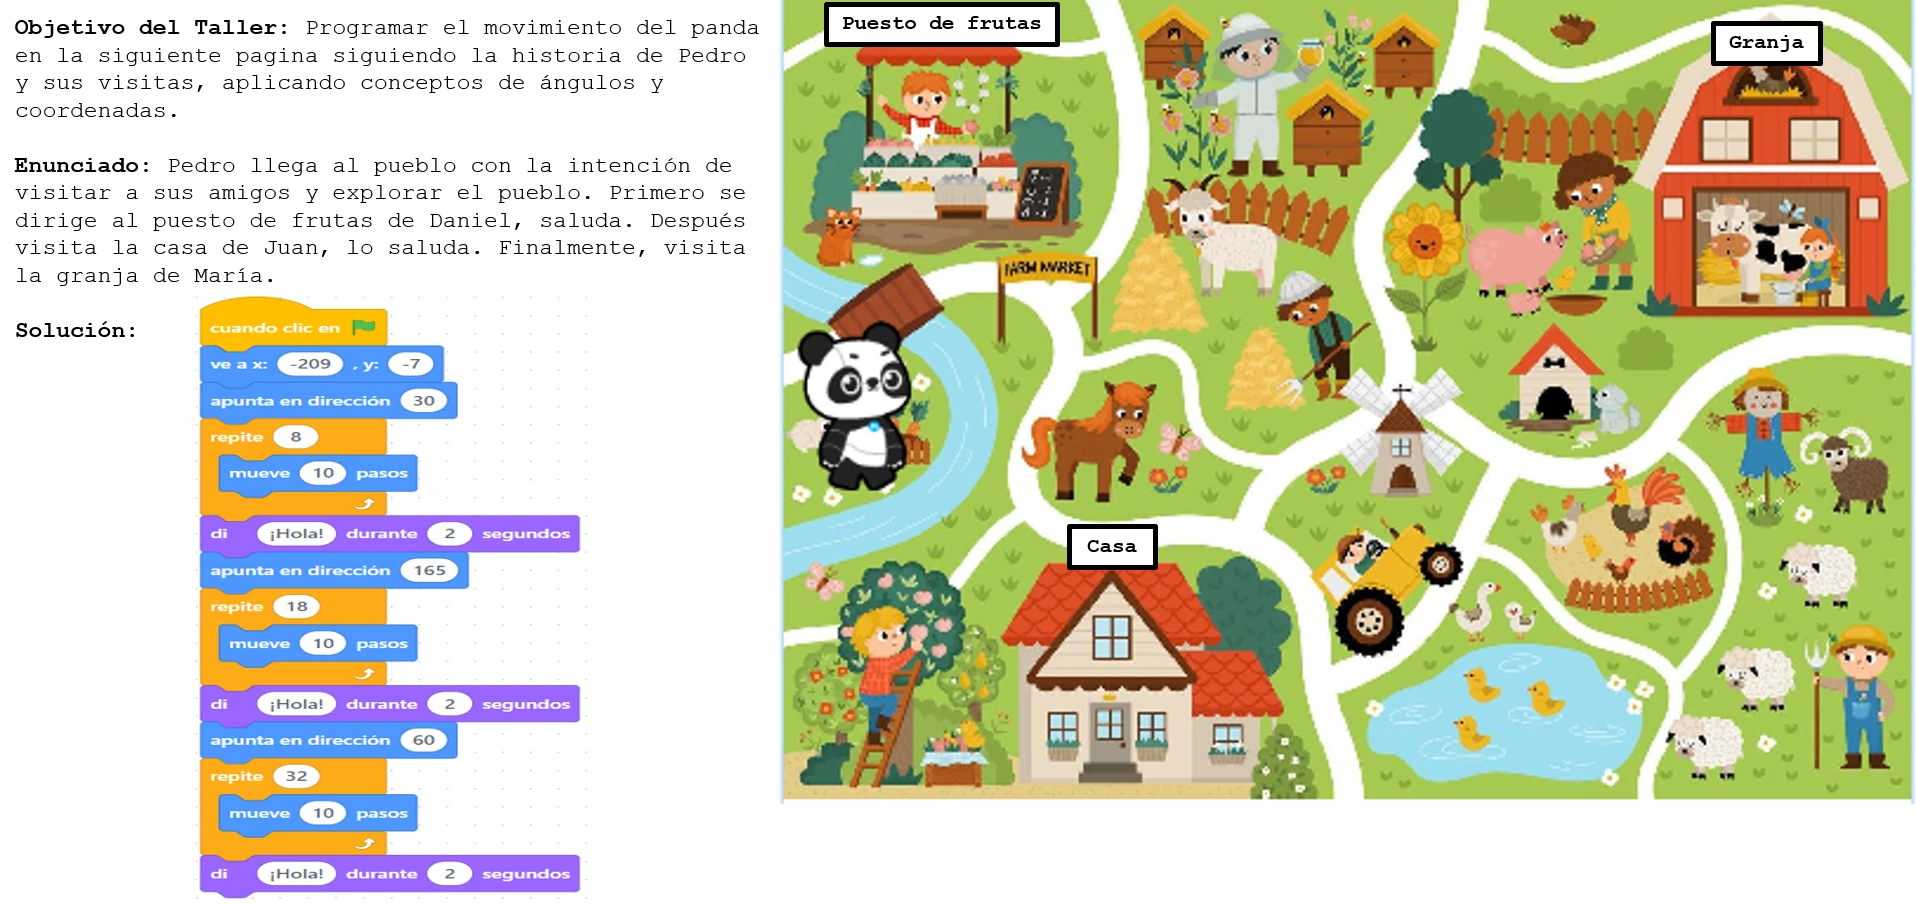
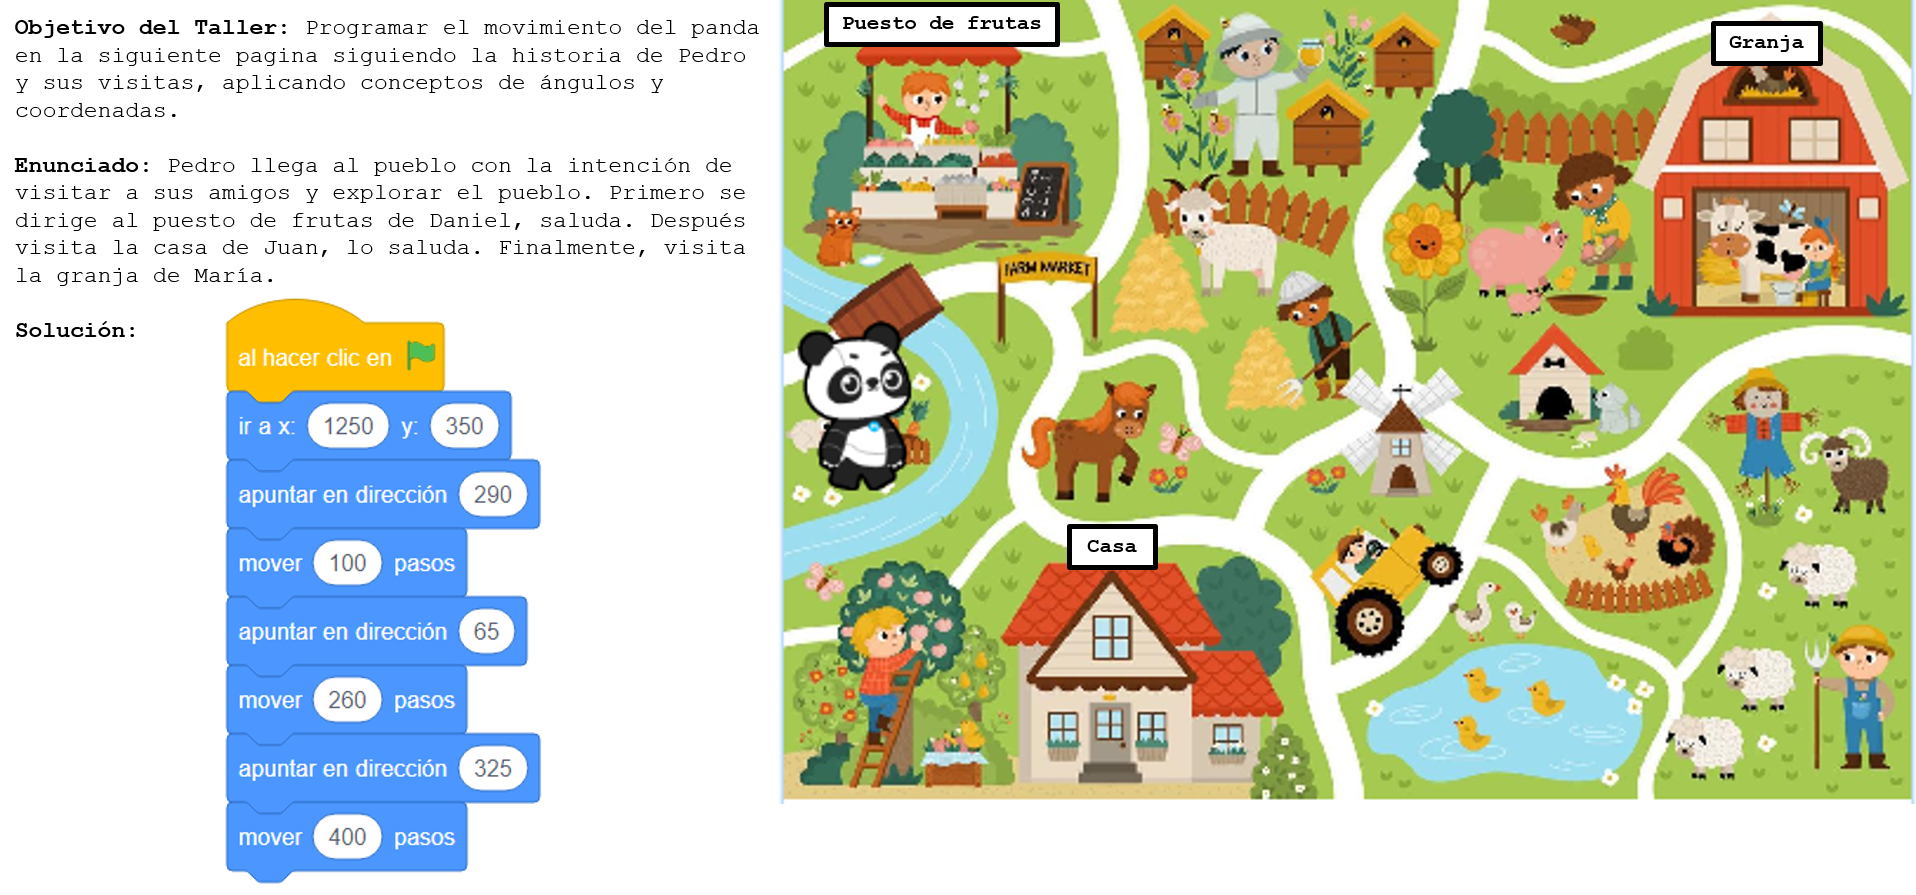
Ajustes taller 1 solucion

diff --git a/src/pages/tallerbloques/Bloques1.jsx b/src/pages/tallerbloques/Bloques1.jsx
@@ -1,15 +1,12 @@
-import React, { useState, useRef } from "react";
+import React, { useState } from "react";
 import ScratchBlocks from "scratchblocks-react";
-//import "./Bloques.css";
 import { useNavigate } from "react-router-dom";
+import FlagIcon from '@mui/icons-material/Flag';
 import scratchblocks from "scratchblocks";
 import es from "scratchblocks/locales/es-419.json";
 import ess from "scratchblocks/locales/es.json";
 
-// Importa el ícono de la bandera verde desde Material UI
-import FlagIcon from '@mui/icons-material/Flag';
-
-// Configurar scratchblocks con idioma español
+// Cargar idiomas para ScratchBlocks
 scratchblocks.loadLanguages({ es });
 scratchblocks.loadLanguages({ ess });
 
@@ -20,7 +17,7 @@ const Bloques = () => {
     {
       id: 1,
       nombre: "Movimiento",
-      bloques: ["mover (10) pasos","apuntar en dirección (30)", "ir a x: (-209) y: (-7)"],
+      bloques: ["mover (100) pasos", "apuntar en dirección (290)", "ir a x: (1250) y: (350)"],
     },
     {
       id: 2,
@@ -38,6 +35,113 @@ const Bloques = () => {
       bloques: ["al hacer clic en @greenFlag"],
     },
   ]);
+
+  /*     Solucion para pegar en el cuadro de texto
+    al hacer clic en @greenFlag
+    apuntar en dirección (290)
+    mover (100) pasos
+    apuntar en dirección (65)
+    mover (260) pasos
+    apuntar en dirección (325)
+    mover (400) pasos
+  */
+
+  // Actualiza la posición inicial del panda a { x: 1250, y: 350 } y la dirección a 0 (sin rotar)
+  const [posicionPanda, setPosicionPanda] = useState({ x: 1250, y: 350, direccion: 0 });
+  
+  // Estado para el mensaje del panda
+  const [mensajePanda, setMensajePanda] = useState("");
+
+  // Función para mover el panda
+  const moverPanda = async (accion) => {
+    switch (accion.tipo) {
+      case "mover":
+        setPosicionPanda((prev) => ({
+          ...prev,
+          x: prev.x + accion.valor * Math.cos((prev.direccion * Math.PI) / 180), // Movimiento en la dirección actual
+          y: prev.y + accion.valor * Math.sin((prev.direccion * Math.PI) / 180),
+        }));
+        break;
+      case "apuntar":
+        setPosicionPanda((prev) => ({
+          ...prev,
+          direccion: accion.valor, // Cambiar la dirección
+        }));
+        break;
+      case "ir_a":
+        setPosicionPanda({ x: accion.x, y: accion.y, direccion: 0 });
+        break;
+      case "decir":
+        setMensajePanda(accion.mensaje); // Mostrar el mensaje del panda
+        await new Promise((resolve) => setTimeout(resolve, accion.duracion * 1000)); // Esperar los segundos
+        setMensajePanda(""); // Limpiar el mensaje después de la duración
+        break;
+      case "repetir":
+        for (let i = 0; i < accion.veces; i++) {
+          // Ejecutar las acciones repetidas
+          for (const subAccion of accion.subacciones) {
+            await moverPanda(subAccion);
+          }
+        }
+        break;
+      default:
+        break;
+    }
+  };
+
+  // Función para ejecutar el código al hacer clic en la bandera verde
+  const ejecutarCodigo = async () => {
+    const instrucciones = procesarCodigo(codigo);
+
+    // Ejecutar cada instrucción y mover el panda
+    for (const accion of instrucciones) {
+      await moverPanda(accion); // Esperar a que cada acción termine antes de pasar a la siguiente
+    }
+  };
+
+  // Función para procesar el código en formato de bloques (convertir el código a instrucciones)
+  const procesarCodigo = (codigo) => {
+    const instrucciones = [];
+
+    // Dividir el código por líneas y extraer las instrucciones
+    const lineas = codigo.split("\n");
+
+    lineas.forEach((linea) => {
+      if (linea.includes("mover")) {
+        const valor = parseInt(linea.match(/\d+/)[0]);
+        instrucciones.push({ tipo: "mover", valor });
+      } else if (linea.includes("ir a x:")) {
+        const [x, y] = linea.match(/-?\d+/g).map((num) => parseInt(num));
+        instrucciones.push({ tipo: "ir_a", x, y });
+      } else if (linea.includes("decir")) {
+        const mensaje = linea.match(/\(([^)]+)\)/)[1]; // Extraer el mensaje
+        const duracion = parseInt(linea.match(/\d+/g)[1]); // Extraer la duración
+        instrucciones.push({ tipo: "decir", mensaje, duracion });
+      } else if (linea.includes("repetir")) {
+        const veces = parseInt(linea.match(/\d+/)[0]); // Extraer el número de repeticiones
+        const subacciones = []; // Almacenar las subacciones dentro del bloque repetir
+
+        // Procesar las subacciones dentro del bloque repetir
+        const subCodigo = codigo.split("\n").slice(lineas.indexOf(linea) + 1);
+        subCodigo.forEach((subLinea) => {
+          if (subLinea.includes("mover")) {
+            const valor = parseInt(subLinea.match(/\d+/)[0]);
+            subacciones.push({ tipo: "mover", valor });
+          } else if (subLinea.includes("ir a x:")) {
+            const [x, y] = subLinea.match(/-?\d+/g).map((num) => parseInt(num));
+            subacciones.push({ tipo: "ir_a", x, y });
+          }
+        });
+
+        instrucciones.push({ tipo: "repetir", veces, subacciones });
+      } else if (linea.includes("apuntar en dirección")) {
+        const direccion = parseInt(linea.match(/\d+/)[0]); // Extraer la dirección
+        instrucciones.push({ tipo: "apuntar", valor: direccion });
+      }
+    });
+
+    return instrucciones;
+  };
 
   // Función para agregar el bloque arrastrado al área de trabajo
   const manejarDrop = (e) => {
@@ -83,29 +187,15 @@ const Bloques = () => {
     e.preventDefault();
   };
 
-  // Función para permitir la edición de un bloque
-  const editarBloque = (bloque, nuevaValor) => {
-    // Actualizar el valor del bloque en el código
-    const nuevoCodigo = codigo.replace(bloque, nuevaValor);
-    setCodigo(nuevoCodigo);
-  };
-
-  const cargarAlMbot = () => {
-    console.log("Cargar al mBot:", codigo);
-    alert("Código cargado al mBot: \n" + codigo);
-  };
-
   return (
     <div className="container">
       <div className="inner-container">
-        {/* Logo */}
         <img
           src="src/images/logo.webp"
           alt="logo"
           className="logo1"
           onClick={() => navigate("/Proyectos")}
         />
-        {/* Contenido principal */}
         <div className="main-content">
           {/* Menú lateral izquierdo */}
           <div className="sidebar">
@@ -136,13 +226,13 @@ const Bloques = () => {
               ))}
             </ul>
           </div>
+
           {/* Área de edición */}
           <div className="editor">
             <header className="editor-header">
               <h1 className="editor-title">Editor de Bloques</h1>
-              {/* Aquí reemplazamos el texto por el ícono de la bandera verde */}
-              <button className="load-button2">
-                <FlagIcon className="iconFlag" style={{ color: "green"}} />
+              <button className="load-button2" onClick={ejecutarCodigo}>
+                <FlagIcon className="iconFlag" style={{ color: "green" }} />
               </button>
               <button className="load-button" onClick={() => navigate('/Felicitaciones')}>
                 Finalizar Actividad
@@ -153,7 +243,6 @@ const Bloques = () => {
               onDrop={manejarDrop}
               onDragOver={permitirDrop}
             >
-              {/* Aquí manejamos la edición de bloques */}
               <ScratchBlocks blockStyle="scratch3" languages={["es"]}>
                 {codigo}
               </ScratchBlocks>
@@ -161,9 +250,23 @@ const Bloques = () => {
           </div>
         </div>
       </div>
-      {/* Cuadro de edición del código (consola) abajo a la derecha */}
-      <img src="src/images/mapa.webp" alt="mapa" className="red-square"/>
-      <img src="src/images/panda.webp" alt="panda" className="panda" />
+
+      {/* Imagen del mapa */}
+      <img src="src/images/mapa.webp" alt="mapa" className="red-square" />
+      
+      {/* Panda */}
+      <img
+        src="src/images/panda.webp"
+        alt="panda"
+        className="panda"
+        style={{
+          left: `${posicionPanda.x}px`,
+          top: `${posicionPanda.y}px`,
+          transform: `rotate(${posicionPanda.direccion}deg)`, // Rotar la imagen del panda
+        }}
+      />
+
+      {/* Consola para código */}
       <div className="console">
         <textarea
           value={codigo}
@@ -172,6 +275,11 @@ const Bloques = () => {
           cols="30"
         />
       </div>
+
+      {/* Mostrar el mensaje del panda */}
+      {mensajePanda && (
+        <div className="mensaje-panda">{mensajePanda}</div>
+      )}
     </div>
   );
 };
